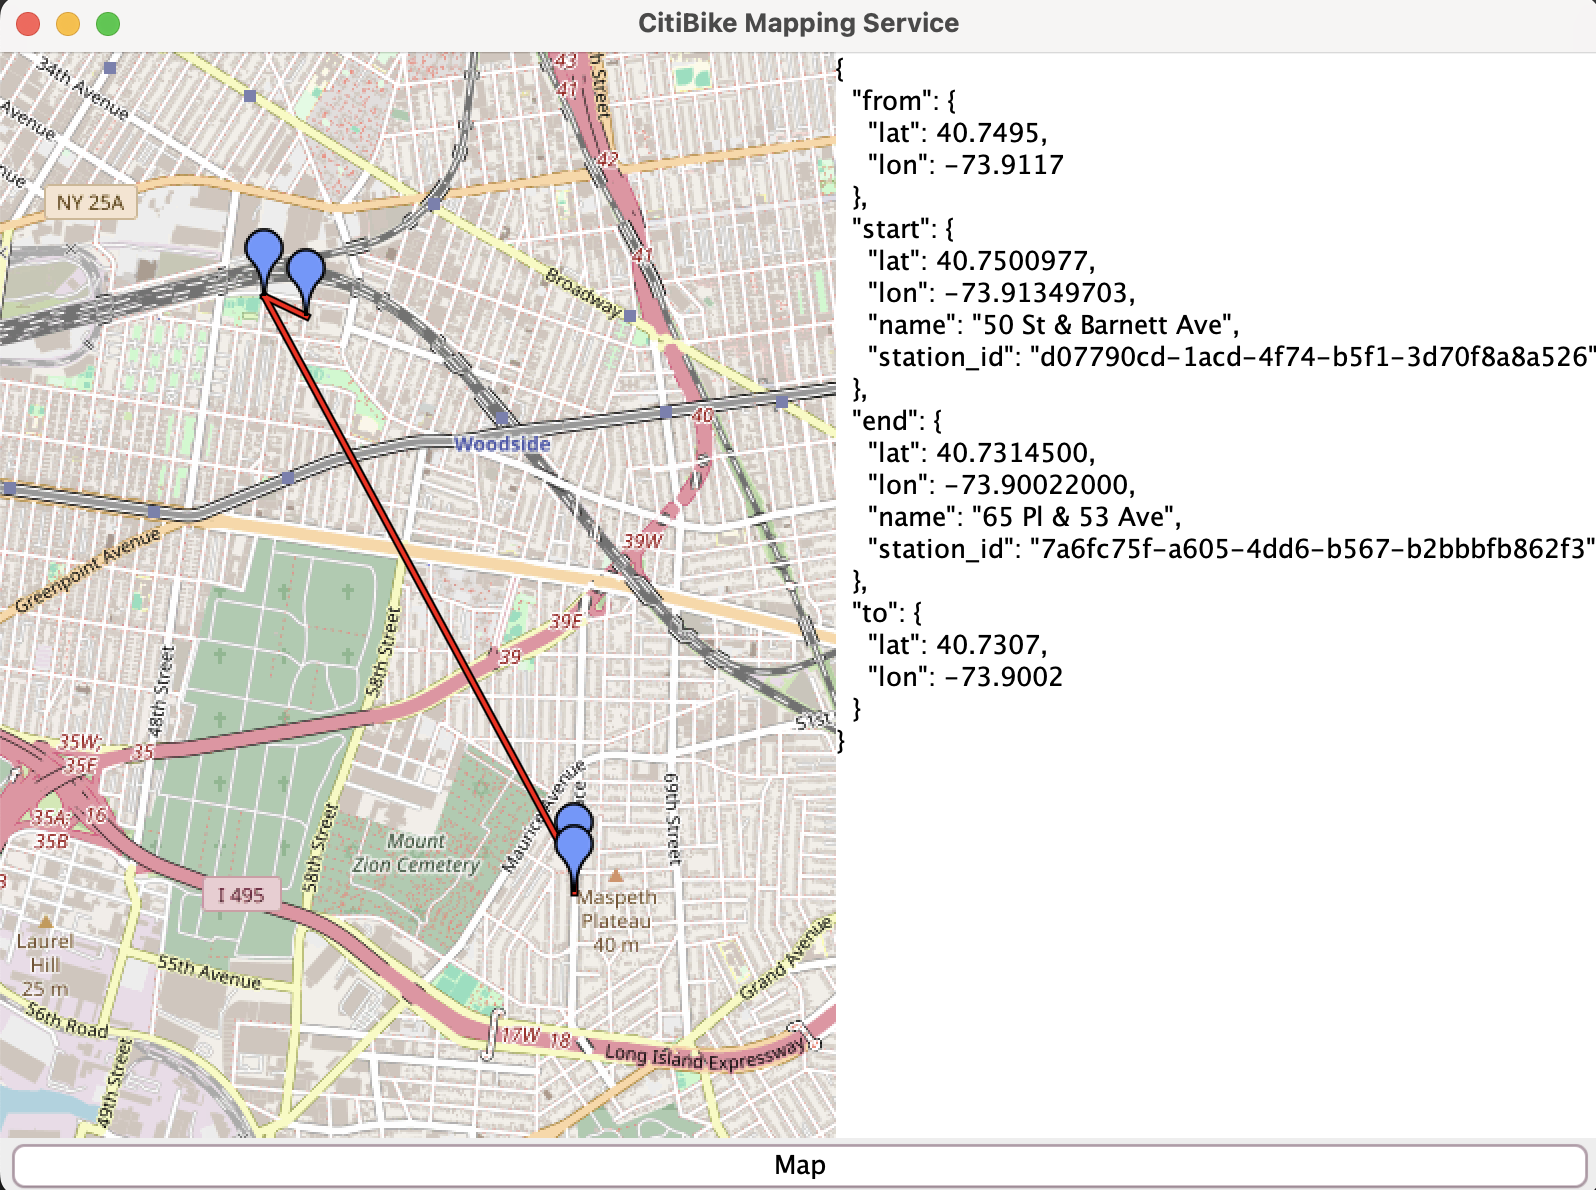
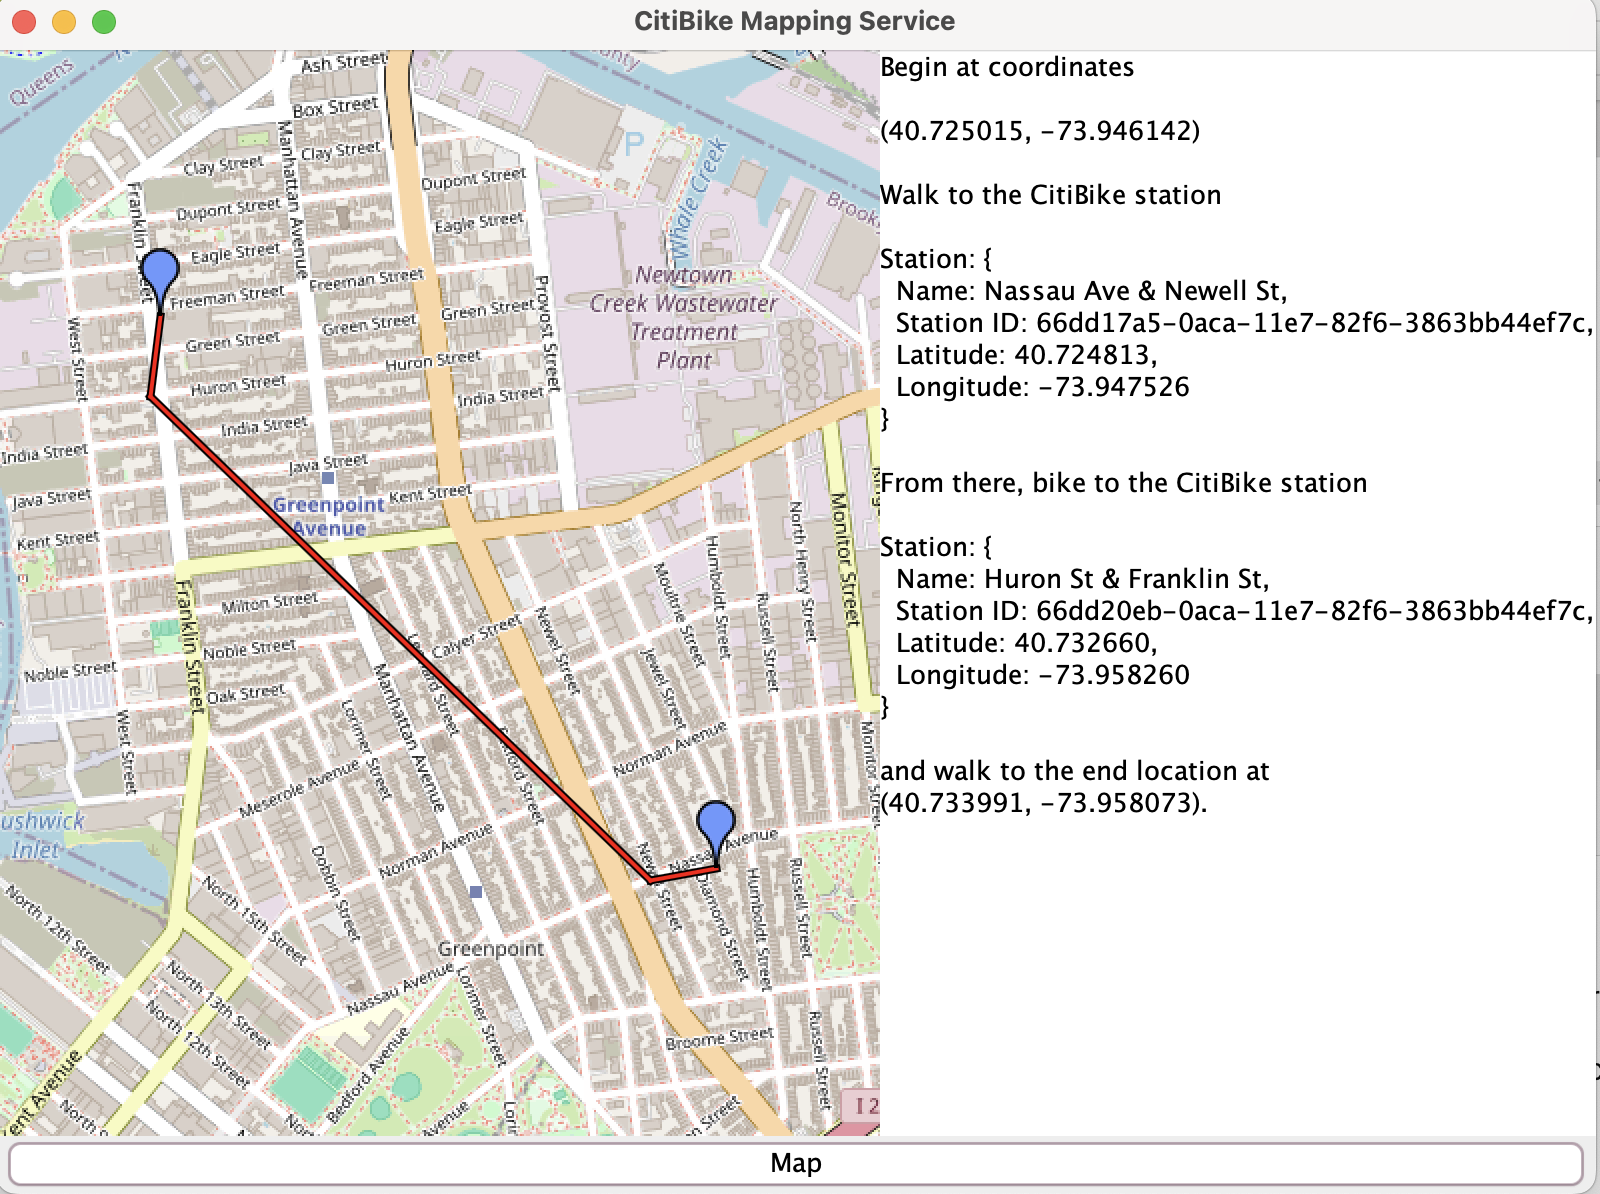
corrections

diff --git a/src/main/java/green/citibike/CitiFrame.java b/src/main/java/green/citibike/CitiFrame.java
@@ -1,9 +1,10 @@
 package green.citibike;
 
-import com.amazonaws.services.lambda.runtime.events.APIGatewayProxyRequestEvent;
 import green.citibike.aws.*;
 import green.citibike.json.StationInfo;
-import io.reactivex.rxjava3.core.Single;
+import hu.akarnokd.rxjava3.swing.SwingSchedulers;
+import io.reactivex.rxjava3.disposables.Disposable;
+import io.reactivex.rxjava3.schedulers.Schedulers;
 import org.jxmapviewer.JXMapViewer;
 import org.jxmapviewer.OSMTileFactoryInfo;
 import org.jxmapviewer.input.CenterMapListener;
@@ -26,8 +27,6 @@ import java.util.*;
 import java.util.List;
 
 public class CitiFrame extends JFrame {
-
-    CitiRequestHandler requestHandler = new CitiRequestHandler();
 
     public CitiFrame() {
         setSize(800, 600);
@@ -92,8 +91,7 @@ public class CitiFrame extends JFrame {
             @Override
             public void actionPerformed(ActionEvent e) {
                 if (track.size() == 2) {
-                    Response response = mapPoints(track);
-                    textArea.setText(response.toString());
+                    mapPoints(track, textArea);
                     setWaypointPainter(track, waypointPainter);
                     mapViewer.zoomToBestFit(
                             new HashSet<>(track),
@@ -128,23 +126,17 @@ public class CitiFrame extends JFrame {
         wp.setWaypoints(waypoints);
     }
 
-    private Response mapPoints(List<GeoPosition> track) {
-        /*
-        Request request = new Request(track.get(0), track.get(1));
-        String json = request.toString();
-        APIGatewayProxyRequestEvent event = new APIGatewayProxyRequestEvent();
-        event.setBody(json);
-
-        Response response = requestHandler.handleRequest(event, null);
-
+    private void mapPoints(List<GeoPosition> track, JTextArea textArea) {
+        LambdaService service = new LambdaServiceFactory().getService();
         Disposable disposable = service.getStations(new Request(track.get(0), track.get(1)))
                 .subscribeOn(Schedulers.io())
                 .observeOn(SwingSchedulers.edt())
                 .subscribe(
-                        this::handleResponse,
+                        (response) -> handleResponse(response, track, textArea),
                         Throwable::printStackTrace);
-*/LambdaService service = new LambdaServiceFactory().getService();
-        Response response = service.getStations(new Request(track.get(0), track.get(1))).blockingGet();
+    }
+
+    private void handleResponse(Response response, List<GeoPosition> track, JTextArea textArea) {
         StationInfo stationInfo = response.getStart();
         GeoPosition stationFrom = new GeoPosition(stationInfo.getLat(), stationInfo.getLon());
         stationInfo = response.getEnd();
@@ -153,9 +145,7 @@ public class CitiFrame extends JFrame {
         track.add(1, stationFrom);
         track.add(2, stationTo);
 
-        return response;
-
-
+        textArea.setText(response.toString());
     }
 
     public static void main(String[] args) {

diff --git a/src/main/java/green/citibike/aws/Response.java b/src/main/java/green/citibike/aws/Response.java
@@ -32,5 +32,29 @@ public class Response {
         return end;
     }
 
+    public String toString() {
+        return String.format(
+                """
+                        Begin at coordinates
+                        
+                        %s
+                        
+                        Walk to the CitiBike station\s
+                        
+                        %s
+                        
+                        From there, bike to the CitiBike station\s
+                         
+                        %s
+                        
+                        and walk to the end location at\s
+                        %s.""",
+                from.toString(),
+                start.toString(),
+                end.toString(),
+                to.toString()
+        );
+    }
+
 
 }

diff --git a/src/main/java/green/citibike/aws/CitiRequestHandler.java b/src/main/java/green/citibike/aws/CitiRequestHandler.java
@@ -21,12 +21,14 @@ public class CitiRequestHandler implements RequestHandler<APIGatewayProxyRequest
         Stations<StationInfo> stationsInfo = citiService.getStations().blockingGet();
         Stations<StatusInfo> statusInfo = citiService.getStatus().blockingGet();
         citiController = new CitiController(stationsInfo, statusInfo);
+
     }
 
     @Override
     public Response handleRequest(APIGatewayProxyRequestEvent event, Context context) {
         Stations<StationInfo> stationsInfo = citiService.getStations().blockingGet();
         Stations<StatusInfo> statusInfo = citiService.getStatus().blockingGet();
+
         citiController.replaceStationsInfo(stationsInfo, statusInfo);
         String body = event.getBody();
         Gson gson = new Gson();

diff --git a/src/main/java/green/citibike/json/StationInfo.java b/src/main/java/green/citibike/json/StationInfo.java
@@ -35,4 +35,19 @@ public class StationInfo {
         return station_id;
         //CHECKSTYLE:ON
     }
+
+    public String toString() {
+        return String.format(
+                "Station: {\n" +
+                        "  Name: %s,\n" +
+                        "  Station ID: %s,\n" +
+                        "  Latitude: %.6f,\n" +
+                        "  Longitude: %.6f\n" +
+                        "}",
+                name,
+                station_id,
+                lat,
+                lon
+        );
+    }
 }

diff --git a/src/main/java/green/citibike/aws/Request.java b/src/main/java/green/citibike/aws/Request.java
@@ -1,7 +1,6 @@
 package green.citibike.aws;
 
 import org.jxmapviewer.viewer.GeoPosition;
-import org.jxmapviewer.viewer.Waypoint;
 
 public class Request {
     private Coordinate from;

diff --git a/src/main/java/green/citibike/aws/Coordinate.java b/src/main/java/green/citibike/aws/Coordinate.java
@@ -27,4 +27,8 @@ public class Coordinate {
         return lon;
     }
 
+    public String toString() {
+        return String.format("(%f, %f)", lat, lon);
+    }
+
 }
